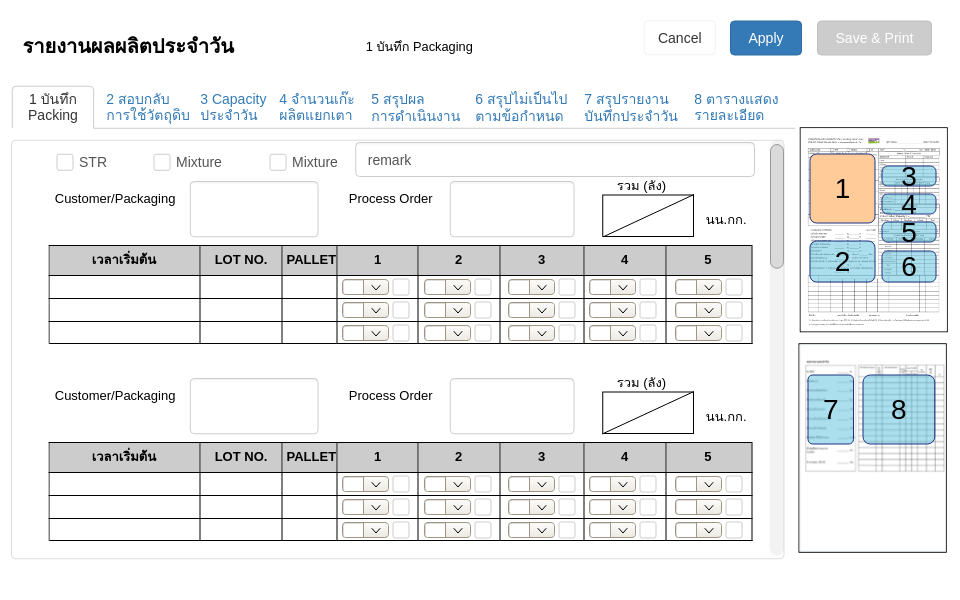
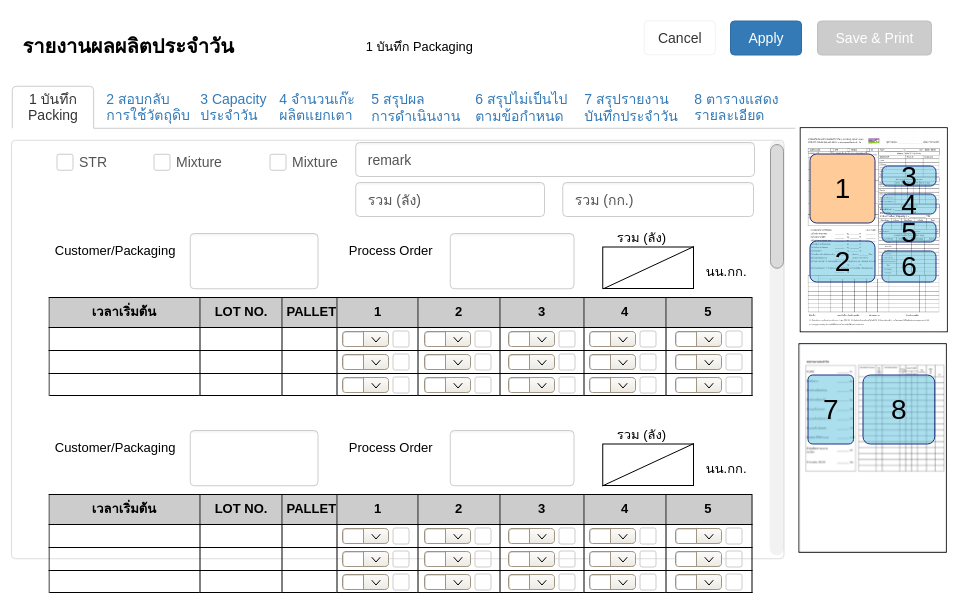
add inputs :sum bucket, sum weight in page1

diff --git a/docs/index.html b/docs/index.html
@@ -1,2 +1,2 @@
 <html xmlns="http://www.w3.org/1999/xhtml" xmlns:p="http://www.evolus.vn/Namespace/Pencil" xmlns:html="http://www.w3.org/1999/xhtml"><head><meta http-equiv="Content-Type" content="text/html; charset=UTF-8" />
-<title>report04</title><link rel="stylesheet" href="Resources/style.css" /><script type="application/javascript" src="Resources/script.js"></script></head><body><h1 id="documentTitle">report04</h1><p id="documentMetadata">Exported at: Wed May 03 2023 18:57:10 GMT+0700 (Indochina Time)</p><div class="Page" id="list_page"><h2>List</h2><div class="ImageContainer"><img src="pages/list.png" width="960" height="600" usemap="#map_list" /></div><map name="map_list"><area shape="rect" coords="85.25,146,242.5,180" href="#list_add_page" title="Go to page 'List (add)'" /></map></div><div class="Page" id="list_add_page"><h2>List (add)</h2><div class="ImageContainer"><img src="pages/list_add.png" width="960" height="600" usemap="#map_list_add" /></div><map name="map_list_add"><area shape="rect" coords="97,366.5,168,400.5" href="#list_page" title="Go to page 'List'" /><area shape="rect" coords="186,366.25,307,400.25" href="#form01_page" title="Go to page 'form01'" /></map></div><div class="Page" id="form01_page"><h2>form01</h2><div class="ImageContainer"><img src="pages/form01.png" width="960" height="600" usemap="#map_form01" /></div><map name="map_form01"><area shape="rect" coords="48.5,245,755.25,346" href="#form01__page" title="Go to page 'form01 (กะ)'" /><area shape="rect" coords="863,375,934.75,444" href="#form08_page" title="Go to page 'form08'" /><area shape="rect" coords="808,375,853.5,444" href="#form07_page" title="Go to page 'form07'" /><area shape="rect" coords="882,246.5,936,286.5" href="#form06_page" title="Go to page 'form06'" /><area shape="rect" coords="882,212.5,936,252.5" href="#form05_page" title="Go to page 'form05'" /><area shape="rect" coords="882,184.5,936,224.5" href="#form04_page" title="Go to page 'form04'" /><area shape="rect" coords="810,241,875,282" href="#form02_page" title="Go to page 'form02'" /><area shape="rect" coords="882,156.5,936,196.5" href="#form03_page" title="Go to page 'form03'" /><area shape="rect" coords="810,154,875,223" href="#form01_page" title="Go to page 'form01'" /><area shape="rect" coords="679.25,85.75,804.75,127.75" href="#form08_page" title="Go to page 'form08'" /><area shape="rect" coords="569.25,85.75,694.75,127.75" href="#form07_page" title="Go to page 'form07'" /><area shape="rect" coords="460.25,85.75,585.75,127.75" href="#form06_page" title="Go to page 'form06'" /><area shape="rect" coords="356.25,85.75,471.75,127.75" href="#form05_page" title="Go to page 'form05'" /><area shape="rect" coords="264.25,85.75,379.75,127.75" href="#form04_page" title="Go to page 'form04'" /><area shape="rect" coords="185.25,85.75,283.25,127.75" href="#form03_page" title="Go to page 'form03'" /><area shape="rect" coords="91.25,85.75,189.859375,127.75" href="#form02_page" title="Go to page 'form02'" /></map></div><div class="Page" id="form01__page"><h2>form01 (กะ)</h2><div class="ImageContainer"><img src="pages/form01_.png" width="960" height="600" usemap="#map_form01_" /></div><map name="map_form01_"><area shape="rect" coords="340,279,512,400" href="#form01_page" title="Go to page 'form01'" /><area shape="rect" coords="863,375,934.75,444" href="#form08_page" title="Go to page 'form08'" /><area shape="rect" coords="808,375,853.5,444" href="#form07_page" title="Go to page 'form07'" /><area shape="rect" coords="882,246.5,936,286.5" href="#form06_page" title="Go to page 'form06'" /><area shape="rect" coords="882,212.5,936,252.5" href="#form05_page" title="Go to page 'form05'" /><area shape="rect" coords="882,184.5,936,224.5" href="#form04_page" title="Go to page 'form04'" /><area shape="rect" coords="810,241,875,282" href="#form02_page" title="Go to page 'form02'" /><area shape="rect" coords="882,156.5,936,196.5" href="#form03_page" title="Go to page 'form03'" /><area shape="rect" coords="810,154,875,223" href="#form01_page" title="Go to page 'form01'" /><area shape="rect" coords="679.25,85.75,804.75,127.75" href="#form08_page" title="Go to page 'form08'" /><area shape="rect" coords="569.25,85.75,694.75,127.75" href="#form07_page" title="Go to page 'form07'" /><area shape="rect" coords="460.25,85.75,585.75,127.75" href="#form06_page" title="Go to page 'form06'" /><area shape="rect" coords="356.25,85.75,471.75,127.75" href="#form05_page" title="Go to page 'form05'" /><area shape="rect" coords="264.25,85.75,379.75,127.75" href="#form04_page" title="Go to page 'form04'" /><area shape="rect" coords="185.25,85.75,283.25,127.75" href="#form03_page" title="Go to page 'form03'" /><area shape="rect" coords="91.25,85.75,189.859375,127.75" href="#form02_page" title="Go to page 'form02'" /></map></div><div class="Page" id="form02_page"><h2>form02</h2><div class="ImageContainer"><img src="pages/form02.png" width="960" height="600" usemap="#map_form02" /></div><map name="map_form02"><area shape="rect" coords="863,375,934.75,444" href="#form08_page" title="Go to page 'form08'" /><area shape="rect" coords="808,375,853.5,444" href="#form07_page" title="Go to page 'form07'" /><area shape="rect" coords="882,246.5,936,286.5" href="#form06_page" title="Go to page 'form06'" /><area shape="rect" coords="882,212.5,936,252.5" href="#form05_page" title="Go to page 'form05'" /><area shape="rect" coords="882,184.5,936,224.5" href="#form04_page" title="Go to page 'form04'" /><area shape="rect" coords="810,241,875,282" href="#form02_page" title="Go to page 'form02'" /><area shape="rect" coords="882,156.5,936,196.5" href="#form03_page" title="Go to page 'form03'" /><area shape="rect" coords="810,154,875,223" href="#form01_page" title="Go to page 'form01'" /><area shape="rect" coords="680.25,85.75,805.75,127.75" href="#form08_page" title="Go to page 'form08'" /><area shape="rect" coords="570.25,85.75,695.75,127.75" href="#form07_page" title="Go to page 'form07'" /><area shape="rect" coords="461.25,85.75,586.75,127.75" href="#form06_page" title="Go to page 'form06'" /><area shape="rect" coords="357.25,85.75,472.75,127.75" href="#form05_page" title="Go to page 'form05'" /><area shape="rect" coords="265.25,85.75,380.75,127.75" href="#form04_page" title="Go to page 'form04'" /><area shape="rect" coords="186.25,85.75,284.25,127.75" href="#form03_page" title="Go to page 'form03'" /><area shape="rect" coords="13.25,85.75,111.25,127.75" href="#form01_page" title="Go to page 'form01'" /></map></div><div class="Page" id="form03_page"><h2>form03</h2><div class="ImageContainer"><img src="pages/form03.png" width="960" height="600" usemap="#map_form03" /></div><map name="map_form03"><area shape="rect" coords="863,375,934.75,444" href="#form08_page" title="Go to page 'form08'" /><area shape="rect" coords="808,375,853.5,444" href="#form07_page" title="Go to page 'form07'" /><area shape="rect" coords="882,246.5,936,286.5" href="#form06_page" title="Go to page 'form06'" /><area shape="rect" coords="882,212.5,936,252.5" href="#form05_page" title="Go to page 'form05'" /><area shape="rect" coords="882,184.5,936,224.5" href="#form04_page" title="Go to page 'form04'" /><area shape="rect" coords="810,241,875,282" href="#form02_page" title="Go to page 'form02'" /><area shape="rect" coords="882,156.5,936,196.5" href="#form03_page" title="Go to page 'form03'" /><area shape="rect" coords="810,154,875,223" href="#form01_page" title="Go to page 'form01'" /><area shape="rect" coords="679.25,85.75,804.75,127.75" href="#form08_page" title="Go to page 'form08'" /><area shape="rect" coords="569.25,85.75,694.75,127.75" href="#form07_page" title="Go to page 'form07'" /><area shape="rect" coords="460.25,85.75,585.75,127.75" href="#form06_page" title="Go to page 'form06'" /><area shape="rect" coords="356.25,85.75,471.75,127.75" href="#form05_page" title="Go to page 'form05'" /><area shape="rect" coords="91.25,85.75,189.859375,127.75" href="#form02_page" title="Go to page 'form02'" /><area shape="rect" coords="264.25,85.75,379.75,127.75" href="#form04_page" title="Go to page 'form04'" /><area shape="rect" coords="13.25,85.75,111.25,127.75" href="#form01_page" title="Go to page 'form01'" /></map></div><div class="Page" id="form04_page"><h2>form04</h2><div class="ImageContainer"><img src="pages/form04.png" width="960" height="600" usemap="#map_form04" /></div><map name="map_form04"><area shape="rect" coords="863,375,934.75,444" href="#form08_page" title="Go to page 'form08'" /><area shape="rect" coords="808,375,853.5,444" href="#form07_page" title="Go to page 'form07'" /><area shape="rect" coords="882,246.5,936,286.5" href="#form06_page" title="Go to page 'form06'" /><area shape="rect" coords="882,212.5,936,252.5" href="#form05_page" title="Go to page 'form05'" /><area shape="rect" coords="882,184.5,936,224.5" href="#form04_page" title="Go to page 'form04'" /><area shape="rect" coords="810,241,875,282" href="#form02_page" title="Go to page 'form02'" /><area shape="rect" coords="882,156.5,936,196.5" href="#form03_page" title="Go to page 'form03'" /><area shape="rect" coords="810,154,875,223" href="#form01_page" title="Go to page 'form01'" /><area shape="rect" coords="679.25,84.75,804.75,126.75" href="#form08_page" title="Go to page 'form08'" /><area shape="rect" coords="569.25,84.75,694.75,126.75" href="#form07_page" title="Go to page 'form07'" /><area shape="rect" coords="460.25,84.75,585.75,126.75" href="#form06_page" title="Go to page 'form06'" /><area shape="rect" coords="356.25,84.75,471.75,126.75" href="#form05_page" title="Go to page 'form05'" /><area shape="rect" coords="185.25,84.75,283.25,126.75" href="#form03_page" title="Go to page 'form03'" /><area shape="rect" coords="91.25,84.75,189.859375,126.75" href="#form02_page" title="Go to page 'form02'" /><area shape="rect" coords="13.25,85.75,111.25,127.75" href="#form01_page" title="Go to page 'form01'" /></map></div><div class="Page" id="form05_page"><h2>form05</h2><div class="ImageContainer"><img src="pages/form05.png" width="960" height="600" usemap="#map_form05" /></div><map name="map_form05"><area shape="rect" coords="863,375,934.75,444" href="#form08_page" title="Go to page 'form08'" /><area shape="rect" coords="808,375,853.5,444" href="#form07_page" title="Go to page 'form07'" /><area shape="rect" coords="882,246.5,936,286.5" href="#form06_page" title="Go to page 'form06'" /><area shape="rect" coords="882,212.5,936,252.5" href="#form05_page" title="Go to page 'form05'" /><area shape="rect" coords="882,184.5,936,224.5" href="#form04_page" title="Go to page 'form04'" /><area shape="rect" coords="810,241,875,282" href="#form02_page" title="Go to page 'form02'" /><area shape="rect" coords="882,156.5,936,196.5" href="#form03_page" title="Go to page 'form03'" /><area shape="rect" coords="810,154,875,223" href="#form01_page" title="Go to page 'form01'" /><area shape="rect" coords="679.25,85.75,804.75,127.75" href="#form08_page" title="Go to page 'form08'" /><area shape="rect" coords="569.25,85.75,694.75,127.75" href="#form07_page" title="Go to page 'form07'" /><area shape="rect" coords="460.25,85.75,585.75,127.75" href="#form06_page" title="Go to page 'form06'" /><area shape="rect" coords="264.25,85.75,379.75,127.75" href="#form04_page" title="Go to page 'form04'" /><area shape="rect" coords="185.25,85.75,283.25,127.75" href="#form03_page" title="Go to page 'form03'" /><area shape="rect" coords="91.25,85.75,189.859375,127.75" href="#form02_page" title="Go to page 'form02'" /><area shape="rect" coords="13.25,85.75,111.25,127.75" href="#form01_page" title="Go to page 'form01'" /></map></div><div class="Page" id="form06_page"><h2>form06</h2><div class="ImageContainer"><img src="pages/form06.png" width="960" height="600" usemap="#map_form06" /></div><map name="map_form06"><area shape="rect" coords="863,375,934.75,444" href="#form08_page" title="Go to page 'form08'" /><area shape="rect" coords="808,375,853.5,444" href="#form07_page" title="Go to page 'form07'" /><area shape="rect" coords="882,246.5,936,286.5" href="#form06_page" title="Go to page 'form06'" /><area shape="rect" coords="882,212.5,936,252.5" href="#form05_page" title="Go to page 'form05'" /><area shape="rect" coords="882,184.5,936,224.5" href="#form04_page" title="Go to page 'form04'" /><area shape="rect" coords="810,241,875,282" href="#form02_page" title="Go to page 'form02'" /><area shape="rect" coords="882,156.5,936,196.5" href="#form03_page" title="Go to page 'form03'" /><area shape="rect" coords="810,154,875,223" href="#form01_page" title="Go to page 'form01'" /><area shape="rect" coords="679.25,85.75,804.75,127.75" href="#form08_page" title="Go to page 'form08'" /><area shape="rect" coords="569.25,85.75,694.75,127.75" href="#form07_page" title="Go to page 'form07'" /><area shape="rect" coords="356.25,85.75,471.75,127.75" href="#form05_page" title="Go to page 'form05'" /><area shape="rect" coords="264.25,85.75,379.75,127.75" href="#form04_page" title="Go to page 'form04'" /><area shape="rect" coords="185.25,85.75,283.25,127.75" href="#form03_page" title="Go to page 'form03'" /><area shape="rect" coords="91.25,85.75,189.859375,127.75" href="#form02_page" title="Go to page 'form02'" /><area shape="rect" coords="13.25,85.75,111.25,127.75" href="#form01_page" title="Go to page 'form01'" /></map></div><div class="Page" id="form07_page"><h2>form07</h2><div class="ImageContainer"><img src="pages/form07.png" width="960" height="600" usemap="#map_form07" /></div><map name="map_form07"><area shape="rect" coords="863,375,934.75,444" href="#form08_page" title="Go to page 'form08'" /><area shape="rect" coords="808,375,853.5,444" href="#form07_page" title="Go to page 'form07'" /><area shape="rect" coords="882,246.5,936,286.5" href="#form06_page" title="Go to page 'form06'" /><area shape="rect" coords="882,212.5,936,252.5" href="#form05_page" title="Go to page 'form05'" /><area shape="rect" coords="882,184.5,936,224.5" href="#form04_page" title="Go to page 'form04'" /><area shape="rect" coords="810,241,875,282" href="#form02_page" title="Go to page 'form02'" /><area shape="rect" coords="882,156.5,936,196.5" href="#form03_page" title="Go to page 'form03'" /><area shape="rect" coords="810,154,875,223" href="#form01_page" title="Go to page 'form01'" /><area shape="rect" coords="679.25,85.75,804.75,127.75" href="#form08_page" title="Go to page 'form08'" /><area shape="rect" coords="460.25,85.75,585.75,127.75" href="#form06_page" title="Go to page 'form06'" /><area shape="rect" coords="356.25,85.75,471.75,127.75" href="#form05_page" title="Go to page 'form05'" /><area shape="rect" coords="264.25,85.75,379.75,127.75" href="#form04_page" title="Go to page 'form04'" /><area shape="rect" coords="185.25,85.75,283.25,127.75" href="#form03_page" title="Go to page 'form03'" /><area shape="rect" coords="91.25,85.75,189.859375,127.75" href="#form02_page" title="Go to page 'form02'" /><area shape="rect" coords="13.25,85.75,111.25,127.75" href="#form01_page" title="Go to page 'form01'" /></map></div><div class="Page" id="form08_page"><h2>form08</h2><div class="ImageContainer"><img src="pages/form08.png" width="960" height="600" usemap="#map_form08" /></div><map name="map_form08"><area shape="rect" coords="644.25,20.75,931,55" href="#print_page1_page" title="Go to page 'print page1'" /><area shape="rect" coords="863,375,934.75,444" href="#form08_page" title="Go to page 'form08'" /><area shape="rect" coords="808,375,853.5,444" href="#form07_page" title="Go to page 'form07'" /><area shape="rect" coords="882,246.5,936,286.5" href="#form06_page" title="Go to page 'form06'" /><area shape="rect" coords="882,212.5,936,252.5" href="#form05_page" title="Go to page 'form05'" /><area shape="rect" coords="882,184.5,936,224.5" href="#form04_page" title="Go to page 'form04'" /><area shape="rect" coords="810,241,875,282" href="#form02_page" title="Go to page 'form02'" /><area shape="rect" coords="882,156.5,936,196.5" href="#form03_page" title="Go to page 'form03'" /><area shape="rect" coords="810,154,875,223" href="#form01_page" title="Go to page 'form01'" /><area shape="rect" coords="569.25,84.75,694.75,126.75" href="#form07_page" title="Go to page 'form07'" /><area shape="rect" coords="460.25,84.75,585.75,126.75" href="#form06_page" title="Go to page 'form06'" /><area shape="rect" coords="356.25,84.75,471.75,126.75" href="#form05_page" title="Go to page 'form05'" /><area shape="rect" coords="264.25,84.75,379.75,126.75" href="#form04_page" title="Go to page 'form04'" /><area shape="rect" coords="185.25,84.75,283.25,126.75" href="#form03_page" title="Go to page 'form03'" /><area shape="rect" coords="91.25,84.75,189.859375,126.75" href="#form02_page" title="Go to page 'form02'" /><area shape="rect" coords="13.25,85.75,111.25,127.75" href="#form01_page" title="Go to page 'form01'" /></map></div><div class="Page" id="print_page1_page"><h2>print page1</h2><div class="ImageContainer"><img src="pages/print_page1.png" width="794" height="1122" usemap="#map_print_page1" /></div><map name="map_print_page1"><area shape="rect" coords="685.1875,12.5,756.1875,46.5" href="#success_print_page" title="Go to page 'Success Print'" /><area shape="rect" coords="540.3125,13.4375,655.0625,47.4375" href="#print_page2_page" title="Go to page 'print page2'" /><area shape="rect" coords="34.625,12.5,105.625,46.5" href="#form08_page" title="Go to page 'form08'" /></map></div><div class="Page" id="print_page2_page"><h2>print page2</h2><div class="ImageContainer"><img src="pages/print_page2.png" width="794" height="1122" usemap="#map_print_page2" /></div><map name="map_print_page2"><area shape="rect" coords="509.0625,16.4375,655.0625,50.4375" href="#print_page1_page" title="Go to page 'print page1'" /><area shape="rect" coords="685.1875,15.5,756.1875,49.5" href="#success_print_page" title="Go to page 'Success Print'" /><area shape="rect" coords="34.625,12.5,105.625,46.5" href="#form08_page" title="Go to page 'form08'" /></map></div><div class="Page" id="success_print_page"><h2>Success Print</h2><div class="ImageContainer"><img src="pages/success_print.png" width="960" height="600" usemap="#map_success_print" /></div><map name="map_success_print"><area shape="rect" coords="427.75,500.25,568.75,546.75" href="#list_page" title="Go to page 'List'" /></map></div></body></html>
+<title>report04</title><link rel="stylesheet" href="Resources/style.css" /><script type="application/javascript" src="Resources/script.js"></script></head><body><h1 id="documentTitle">report04</h1><p id="documentMetadata">Exported at: Wed May 10 2023 01:48:13 GMT+0700 (Indochina Time)</p><div class="Page" id="list_page"><h2>List</h2><div class="ImageContainer"><img src="pages/list.png" width="960" height="600" usemap="#map_list" /></div><map name="map_list"><area shape="rect" coords="85.25,146,242.5,180" href="#list_add_page" title="Go to page 'List (add)'" /></map></div><div class="Page" id="list_add_page"><h2>List (add)</h2><div class="ImageContainer"><img src="pages/list_add.png" width="960" height="600" usemap="#map_list_add" /></div><map name="map_list_add"><area shape="rect" coords="97,366.5,168,400.5" href="#list_page" title="Go to page 'List'" /><area shape="rect" coords="186,366.25,307,400.25" href="#form01_page" title="Go to page 'form01'" /></map></div><div class="Page" id="form01_page"><h2>form01</h2><div class="ImageContainer"><img src="pages/form01.png" width="960" height="600" usemap="#map_form01" /></div><map name="map_form01"><area shape="rect" coords="48.5,297,755.25,398" href="#form01__page" title="Go to page 'form01 (กะ)'" /><area shape="rect" coords="863,375,934.75,444" href="#form08_page" title="Go to page 'form08'" /><area shape="rect" coords="808,375,853.5,444" href="#form07_page" title="Go to page 'form07'" /><area shape="rect" coords="882,246.5,936,286.5" href="#form06_page" title="Go to page 'form06'" /><area shape="rect" coords="882,212.5,936,252.5" href="#form05_page" title="Go to page 'form05'" /><area shape="rect" coords="882,184.5,936,224.5" href="#form04_page" title="Go to page 'form04'" /><area shape="rect" coords="810,241,875,282" href="#form02_page" title="Go to page 'form02'" /><area shape="rect" coords="882,156.5,936,196.5" href="#form03_page" title="Go to page 'form03'" /><area shape="rect" coords="810,154,875,223" href="#form01_page" title="Go to page 'form01'" /><area shape="rect" coords="679.25,85.75,804.75,127.75" href="#form08_page" title="Go to page 'form08'" /><area shape="rect" coords="569.25,85.75,694.75,127.75" href="#form07_page" title="Go to page 'form07'" /><area shape="rect" coords="460.25,85.75,585.75,127.75" href="#form06_page" title="Go to page 'form06'" /><area shape="rect" coords="356.25,85.75,471.75,127.75" href="#form05_page" title="Go to page 'form05'" /><area shape="rect" coords="264.25,85.75,379.75,127.75" href="#form04_page" title="Go to page 'form04'" /><area shape="rect" coords="185.25,85.75,283.25,127.75" href="#form03_page" title="Go to page 'form03'" /><area shape="rect" coords="91.25,85.75,189.859375,127.75" href="#form02_page" title="Go to page 'form02'" /></map></div><div class="Page" id="form01__page"><h2>form01 (กะ)</h2><div class="ImageContainer"><img src="pages/form01_.png" width="960" height="600" usemap="#map_form01_" /></div><map name="map_form01_"><area shape="rect" coords="340,279,512,400" href="#form01_page" title="Go to page 'form01'" /><area shape="rect" coords="863,375,934.75,444" href="#form08_page" title="Go to page 'form08'" /><area shape="rect" coords="808,375,853.5,444" href="#form07_page" title="Go to page 'form07'" /><area shape="rect" coords="882,246.5,936,286.5" href="#form06_page" title="Go to page 'form06'" /><area shape="rect" coords="882,212.5,936,252.5" href="#form05_page" title="Go to page 'form05'" /><area shape="rect" coords="882,184.5,936,224.5" href="#form04_page" title="Go to page 'form04'" /><area shape="rect" coords="810,241,875,282" href="#form02_page" title="Go to page 'form02'" /><area shape="rect" coords="882,156.5,936,196.5" href="#form03_page" title="Go to page 'form03'" /><area shape="rect" coords="810,154,875,223" href="#form01_page" title="Go to page 'form01'" /><area shape="rect" coords="679.25,85.75,804.75,127.75" href="#form08_page" title="Go to page 'form08'" /><area shape="rect" coords="569.25,85.75,694.75,127.75" href="#form07_page" title="Go to page 'form07'" /><area shape="rect" coords="460.25,85.75,585.75,127.75" href="#form06_page" title="Go to page 'form06'" /><area shape="rect" coords="356.25,85.75,471.75,127.75" href="#form05_page" title="Go to page 'form05'" /><area shape="rect" coords="264.25,85.75,379.75,127.75" href="#form04_page" title="Go to page 'form04'" /><area shape="rect" coords="185.25,85.75,283.25,127.75" href="#form03_page" title="Go to page 'form03'" /><area shape="rect" coords="91.25,85.75,189.859375,127.75" href="#form02_page" title="Go to page 'form02'" /></map></div><div class="Page" id="form02_page"><h2>form02</h2><div class="ImageContainer"><img src="pages/form02.png" width="960" height="600" usemap="#map_form02" /></div><map name="map_form02"><area shape="rect" coords="863,375,934.75,444" href="#form08_page" title="Go to page 'form08'" /><area shape="rect" coords="808,375,853.5,444" href="#form07_page" title="Go to page 'form07'" /><area shape="rect" coords="882,246.5,936,286.5" href="#form06_page" title="Go to page 'form06'" /><area shape="rect" coords="882,212.5,936,252.5" href="#form05_page" title="Go to page 'form05'" /><area shape="rect" coords="882,184.5,936,224.5" href="#form04_page" title="Go to page 'form04'" /><area shape="rect" coords="810,241,875,282" href="#form02_page" title="Go to page 'form02'" /><area shape="rect" coords="882,156.5,936,196.5" href="#form03_page" title="Go to page 'form03'" /><area shape="rect" coords="810,154,875,223" href="#form01_page" title="Go to page 'form01'" /><area shape="rect" coords="680.25,85.75,805.75,127.75" href="#form08_page" title="Go to page 'form08'" /><area shape="rect" coords="570.25,85.75,695.75,127.75" href="#form07_page" title="Go to page 'form07'" /><area shape="rect" coords="461.25,85.75,586.75,127.75" href="#form06_page" title="Go to page 'form06'" /><area shape="rect" coords="357.25,85.75,472.75,127.75" href="#form05_page" title="Go to page 'form05'" /><area shape="rect" coords="265.25,85.75,380.75,127.75" href="#form04_page" title="Go to page 'form04'" /><area shape="rect" coords="186.25,85.75,284.25,127.75" href="#form03_page" title="Go to page 'form03'" /><area shape="rect" coords="13.25,85.75,111.25,127.75" href="#form01_page" title="Go to page 'form01'" /></map></div><div class="Page" id="form03_page"><h2>form03</h2><div class="ImageContainer"><img src="pages/form03.png" width="960" height="600" usemap="#map_form03" /></div><map name="map_form03"><area shape="rect" coords="863,375,934.75,444" href="#form08_page" title="Go to page 'form08'" /><area shape="rect" coords="808,375,853.5,444" href="#form07_page" title="Go to page 'form07'" /><area shape="rect" coords="882,246.5,936,286.5" href="#form06_page" title="Go to page 'form06'" /><area shape="rect" coords="882,212.5,936,252.5" href="#form05_page" title="Go to page 'form05'" /><area shape="rect" coords="882,184.5,936,224.5" href="#form04_page" title="Go to page 'form04'" /><area shape="rect" coords="810,241,875,282" href="#form02_page" title="Go to page 'form02'" /><area shape="rect" coords="882,156.5,936,196.5" href="#form03_page" title="Go to page 'form03'" /><area shape="rect" coords="810,154,875,223" href="#form01_page" title="Go to page 'form01'" /><area shape="rect" coords="679.25,85.75,804.75,127.75" href="#form08_page" title="Go to page 'form08'" /><area shape="rect" coords="569.25,85.75,694.75,127.75" href="#form07_page" title="Go to page 'form07'" /><area shape="rect" coords="460.25,85.75,585.75,127.75" href="#form06_page" title="Go to page 'form06'" /><area shape="rect" coords="356.25,85.75,471.75,127.75" href="#form05_page" title="Go to page 'form05'" /><area shape="rect" coords="91.25,85.75,189.859375,127.75" href="#form02_page" title="Go to page 'form02'" /><area shape="rect" coords="264.25,85.75,379.75,127.75" href="#form04_page" title="Go to page 'form04'" /><area shape="rect" coords="13.25,85.75,111.25,127.75" href="#form01_page" title="Go to page 'form01'" /></map></div><div class="Page" id="form04_page"><h2>form04</h2><div class="ImageContainer"><img src="pages/form04.png" width="960" height="600" usemap="#map_form04" /></div><map name="map_form04"><area shape="rect" coords="863,375,934.75,444" href="#form08_page" title="Go to page 'form08'" /><area shape="rect" coords="808,375,853.5,444" href="#form07_page" title="Go to page 'form07'" /><area shape="rect" coords="882,246.5,936,286.5" href="#form06_page" title="Go to page 'form06'" /><area shape="rect" coords="882,212.5,936,252.5" href="#form05_page" title="Go to page 'form05'" /><area shape="rect" coords="882,184.5,936,224.5" href="#form04_page" title="Go to page 'form04'" /><area shape="rect" coords="810,241,875,282" href="#form02_page" title="Go to page 'form02'" /><area shape="rect" coords="882,156.5,936,196.5" href="#form03_page" title="Go to page 'form03'" /><area shape="rect" coords="810,154,875,223" href="#form01_page" title="Go to page 'form01'" /><area shape="rect" coords="679.25,84.75,804.75,126.75" href="#form08_page" title="Go to page 'form08'" /><area shape="rect" coords="569.25,84.75,694.75,126.75" href="#form07_page" title="Go to page 'form07'" /><area shape="rect" coords="460.25,84.75,585.75,126.75" href="#form06_page" title="Go to page 'form06'" /><area shape="rect" coords="356.25,84.75,471.75,126.75" href="#form05_page" title="Go to page 'form05'" /><area shape="rect" coords="185.25,84.75,283.25,126.75" href="#form03_page" title="Go to page 'form03'" /><area shape="rect" coords="91.25,84.75,189.859375,126.75" href="#form02_page" title="Go to page 'form02'" /><area shape="rect" coords="13.25,85.75,111.25,127.75" href="#form01_page" title="Go to page 'form01'" /></map></div><div class="Page" id="form05_page"><h2>form05</h2><div class="ImageContainer"><img src="pages/form05.png" width="960" height="600" usemap="#map_form05" /></div><map name="map_form05"><area shape="rect" coords="863,375,934.75,444" href="#form08_page" title="Go to page 'form08'" /><area shape="rect" coords="808,375,853.5,444" href="#form07_page" title="Go to page 'form07'" /><area shape="rect" coords="882,246.5,936,286.5" href="#form06_page" title="Go to page 'form06'" /><area shape="rect" coords="882,212.5,936,252.5" href="#form05_page" title="Go to page 'form05'" /><area shape="rect" coords="882,184.5,936,224.5" href="#form04_page" title="Go to page 'form04'" /><area shape="rect" coords="810,241,875,282" href="#form02_page" title="Go to page 'form02'" /><area shape="rect" coords="882,156.5,936,196.5" href="#form03_page" title="Go to page 'form03'" /><area shape="rect" coords="810,154,875,223" href="#form01_page" title="Go to page 'form01'" /><area shape="rect" coords="679.25,85.75,804.75,127.75" href="#form08_page" title="Go to page 'form08'" /><area shape="rect" coords="569.25,85.75,694.75,127.75" href="#form07_page" title="Go to page 'form07'" /><area shape="rect" coords="460.25,85.75,585.75,127.75" href="#form06_page" title="Go to page 'form06'" /><area shape="rect" coords="264.25,85.75,379.75,127.75" href="#form04_page" title="Go to page 'form04'" /><area shape="rect" coords="185.25,85.75,283.25,127.75" href="#form03_page" title="Go to page 'form03'" /><area shape="rect" coords="91.25,85.75,189.859375,127.75" href="#form02_page" title="Go to page 'form02'" /><area shape="rect" coords="13.25,85.75,111.25,127.75" href="#form01_page" title="Go to page 'form01'" /></map></div><div class="Page" id="form06_page"><h2>form06</h2><div class="ImageContainer"><img src="pages/form06.png" width="960" height="600" usemap="#map_form06" /></div><map name="map_form06"><area shape="rect" coords="863,375,934.75,444" href="#form08_page" title="Go to page 'form08'" /><area shape="rect" coords="808,375,853.5,444" href="#form07_page" title="Go to page 'form07'" /><area shape="rect" coords="882,246.5,936,286.5" href="#form06_page" title="Go to page 'form06'" /><area shape="rect" coords="882,212.5,936,252.5" href="#form05_page" title="Go to page 'form05'" /><area shape="rect" coords="882,184.5,936,224.5" href="#form04_page" title="Go to page 'form04'" /><area shape="rect" coords="810,241,875,282" href="#form02_page" title="Go to page 'form02'" /><area shape="rect" coords="882,156.5,936,196.5" href="#form03_page" title="Go to page 'form03'" /><area shape="rect" coords="810,154,875,223" href="#form01_page" title="Go to page 'form01'" /><area shape="rect" coords="679.25,85.75,804.75,127.75" href="#form08_page" title="Go to page 'form08'" /><area shape="rect" coords="569.25,85.75,694.75,127.75" href="#form07_page" title="Go to page 'form07'" /><area shape="rect" coords="356.25,85.75,471.75,127.75" href="#form05_page" title="Go to page 'form05'" /><area shape="rect" coords="264.25,85.75,379.75,127.75" href="#form04_page" title="Go to page 'form04'" /><area shape="rect" coords="185.25,85.75,283.25,127.75" href="#form03_page" title="Go to page 'form03'" /><area shape="rect" coords="91.25,85.75,189.859375,127.75" href="#form02_page" title="Go to page 'form02'" /><area shape="rect" coords="13.25,85.75,111.25,127.75" href="#form01_page" title="Go to page 'form01'" /></map></div><div class="Page" id="form07_page"><h2>form07</h2><div class="ImageContainer"><img src="pages/form07.png" width="960" height="600" usemap="#map_form07" /></div><map name="map_form07"><area shape="rect" coords="863,375,934.75,444" href="#form08_page" title="Go to page 'form08'" /><area shape="rect" coords="808,375,853.5,444" href="#form07_page" title="Go to page 'form07'" /><area shape="rect" coords="882,246.5,936,286.5" href="#form06_page" title="Go to page 'form06'" /><area shape="rect" coords="882,212.5,936,252.5" href="#form05_page" title="Go to page 'form05'" /><area shape="rect" coords="882,184.5,936,224.5" href="#form04_page" title="Go to page 'form04'" /><area shape="rect" coords="810,241,875,282" href="#form02_page" title="Go to page 'form02'" /><area shape="rect" coords="882,156.5,936,196.5" href="#form03_page" title="Go to page 'form03'" /><area shape="rect" coords="810,154,875,223" href="#form01_page" title="Go to page 'form01'" /><area shape="rect" coords="679.25,85.75,804.75,127.75" href="#form08_page" title="Go to page 'form08'" /><area shape="rect" coords="460.25,85.75,585.75,127.75" href="#form06_page" title="Go to page 'form06'" /><area shape="rect" coords="356.25,85.75,471.75,127.75" href="#form05_page" title="Go to page 'form05'" /><area shape="rect" coords="264.25,85.75,379.75,127.75" href="#form04_page" title="Go to page 'form04'" /><area shape="rect" coords="185.25,85.75,283.25,127.75" href="#form03_page" title="Go to page 'form03'" /><area shape="rect" coords="91.25,85.75,189.859375,127.75" href="#form02_page" title="Go to page 'form02'" /><area shape="rect" coords="13.25,85.75,111.25,127.75" href="#form01_page" title="Go to page 'form01'" /></map></div><div class="Page" id="form08_page"><h2>form08</h2><div class="ImageContainer"><img src="pages/form08.png" width="960" height="600" usemap="#map_form08" /></div><map name="map_form08"><area shape="rect" coords="644.25,20.75,931,55" href="#print_page1_page" title="Go to page 'print page1'" /><area shape="rect" coords="863,375,934.75,444" href="#form08_page" title="Go to page 'form08'" /><area shape="rect" coords="808,375,853.5,444" href="#form07_page" title="Go to page 'form07'" /><area shape="rect" coords="882,246.5,936,286.5" href="#form06_page" title="Go to page 'form06'" /><area shape="rect" coords="882,212.5,936,252.5" href="#form05_page" title="Go to page 'form05'" /><area shape="rect" coords="882,184.5,936,224.5" href="#form04_page" title="Go to page 'form04'" /><area shape="rect" coords="810,241,875,282" href="#form02_page" title="Go to page 'form02'" /><area shape="rect" coords="882,156.5,936,196.5" href="#form03_page" title="Go to page 'form03'" /><area shape="rect" coords="810,154,875,223" href="#form01_page" title="Go to page 'form01'" /><area shape="rect" coords="569.25,84.75,694.75,126.75" href="#form07_page" title="Go to page 'form07'" /><area shape="rect" coords="460.25,84.75,585.75,126.75" href="#form06_page" title="Go to page 'form06'" /><area shape="rect" coords="356.25,84.75,471.75,126.75" href="#form05_page" title="Go to page 'form05'" /><area shape="rect" coords="264.25,84.75,379.75,126.75" href="#form04_page" title="Go to page 'form04'" /><area shape="rect" coords="185.25,84.75,283.25,126.75" href="#form03_page" title="Go to page 'form03'" /><area shape="rect" coords="91.25,84.75,189.859375,126.75" href="#form02_page" title="Go to page 'form02'" /><area shape="rect" coords="13.25,85.75,111.25,127.75" href="#form01_page" title="Go to page 'form01'" /></map></div><div class="Page" id="print_page1_page"><h2>print page1</h2><div class="ImageContainer"><img src="pages/print_page1.png" width="794" height="1122" usemap="#map_print_page1" /></div><map name="map_print_page1"><area shape="rect" coords="685.1875,12.5,756.1875,46.5" href="#success_print_page" title="Go to page 'Success Print'" /><area shape="rect" coords="540.3125,13.4375,655.0625,47.4375" href="#print_page2_page" title="Go to page 'print page2'" /><area shape="rect" coords="34.625,12.5,105.625,46.5" href="#form08_page" title="Go to page 'form08'" /></map></div><div class="Page" id="print_page2_page"><h2>print page2</h2><div class="ImageContainer"><img src="pages/print_page2.png" width="794" height="1122" usemap="#map_print_page2" /></div><map name="map_print_page2"><area shape="rect" coords="509.0625,16.4375,655.0625,50.4375" href="#print_page1_page" title="Go to page 'print page1'" /><area shape="rect" coords="685.1875,15.5,756.1875,49.5" href="#success_print_page" title="Go to page 'Success Print'" /><area shape="rect" coords="34.625,12.5,105.625,46.5" href="#form08_page" title="Go to page 'form08'" /></map></div><div class="Page" id="success_print_page"><h2>Success Print</h2><div class="ImageContainer"><img src="pages/success_print.png" width="960" height="600" usemap="#map_success_print" /></div><map name="map_success_print"><area shape="rect" coords="427.75,500.25,568.75,546.75" href="#list_page" title="Go to page 'List'" /></map></div></body></html>
